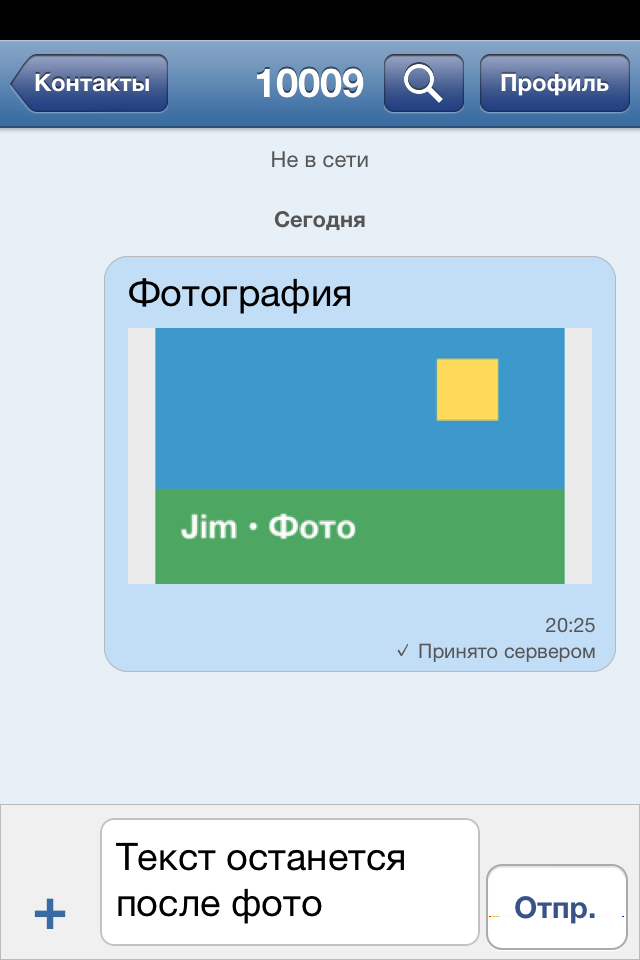
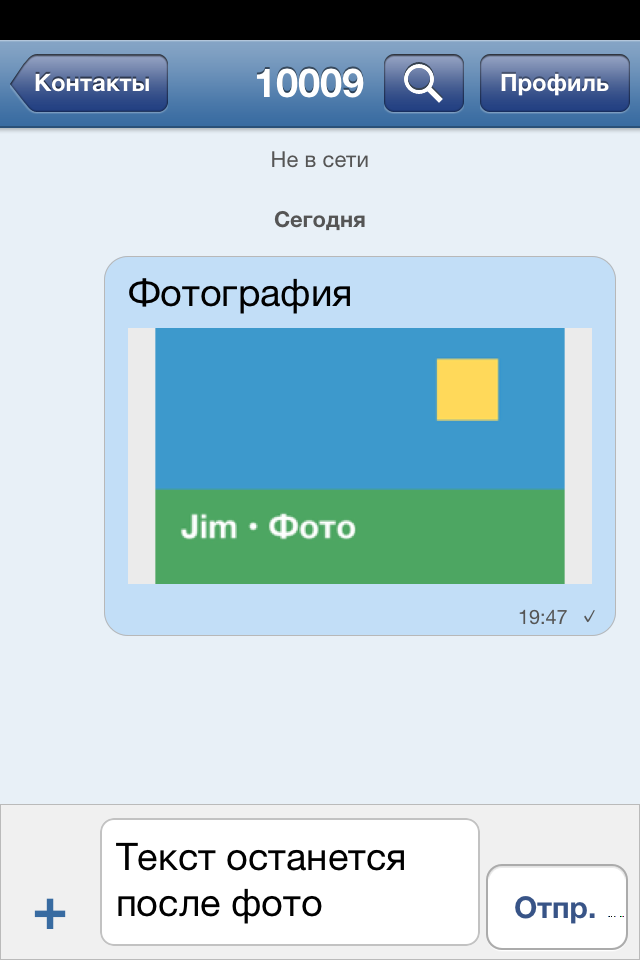
Update Jim Classic catalogue and screenshots for build 9

Changed region(s): [[0.1562, 0.625, 0.9688, 0.7188]]

diff --git a/README.md b/README.md
@@ -7,7 +7,7 @@
 **Знакомая аська на классическом iPhone.** Контакты, сообщения, фотографии,
 смайлики и X-статусы — в нативном интерфейсе с темами ICQ, QIP и Jimm.
 
-**Сборка 8 · iOS 6.1.3–6.1.6 и iOS 9.x · ARMv7 · Jailbreak + AppSync**
+**Сборка 9 · iOS 6.1.3–6.1.6 и iOS 9.x · ARMv7 · Jailbreak + AppSync**
 
 Jim Classic — полноценное самостоятельное приложение для общения в сети **Jimm.online**.
 Оно устанавливается на домашний экран и работает напрямую с сервисом, без
@@ -16,6 +16,16 @@ Jim Classic — полноценное самостоятельное прило
 **В JimmStore приложение называется Jim Classic. В Cydia ищите «Jim (iOS 6)» или «Jim (iOS 9)».**
 
 [Установить Jim](#install-jim) · [Возможности](#jim-features) · [Фотографии](#jim-photos) · [Обновление](#update-jim) · [Загрузки](https://github.com/MiChiRose/Jim-iOS/releases)
+
+## Новое в сборке 9
+
+- Компактные сообщения и короткие индикаторы отправки; полный статус открывается нажатием.
+- Одиночные смайлики крупнее. Набор ICQ Classic, QIP или Jimm выбирается отдельно от темы в **Мой Jim → Смайлики**.
+- Улучшено восстановление соединения при истечении сессии и смене сети.
+- Раздел **Мой Jim → Сеть и диагностика** показывает состояние подключения и позволяет скопировать отчёт без паролей, токенов и переписки.
+
+Переписка, смайлики и восстановление связи проверены на iPhone 4S с iOS 6.1.3.
+Версия пакетов Cydia — **0.1.0-9**.
 
 <a name="install-jim"></a>
 
@@ -86,11 +96,16 @@ USB/IPA-копии. Сохраните существующий Jim и его и
   карточки в чате и просмотр с увеличением.
 - **Оформление:** темы ICQ, QIP и Jimm, знакомые смайлики и настройка размера текста.
 - **Оповещения:** звук, вибрация, непрочитанные и тихие чаты при работе приложения.
-- **Связь:** восстановление соединения при возврате в приложение; сохранённая
+- **Связь:** восстановление соединения при истечении сессии, смене сети и возврате в приложение; сохранённая
   история и черновики доступны без сети. Повтор неподтверждённой отправки — вручную.
 - **Ссылки:** открытие обычных адресов в Safari и копирование полного URL.
 
 <table>
+  <tr>
+    <td align="center" width="50%"><img src="images/chat.png" width="280" alt="Компактные сообщения в сборке 9"></td>
+    <td align="center" width="50%"><img src="images/smileys.png" width="280" alt="Компактная палитра смайликов Jim Classic"></td>
+  </tr>
+  <tr><td align="center"><strong>Компактная переписка</strong></td><td align="center"><strong>Смайлики</strong></td></tr>
   <tr>
     <td align="center" width="50%"><img src="images/contacts.png" width="280" alt="Контакты, аватары и X-статусы в Jim"></td>
     <td align="center" width="50%"><img src="images/photos.png" width="280" alt="Фотография в переписке Jim и сохранённый текстовый черновик"></td>
